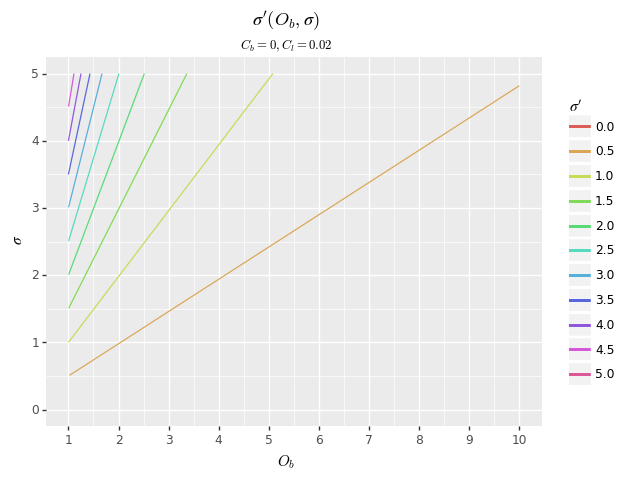
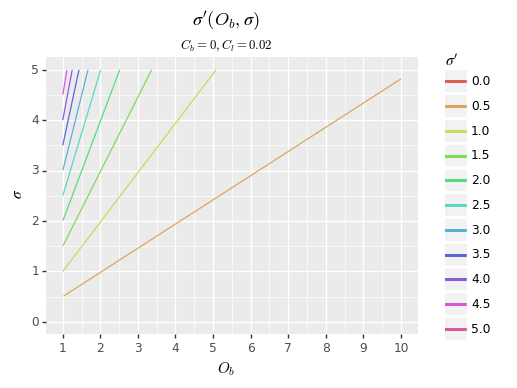
Experimenting with smaller images.

diff --git a/images/matched-betting/plots.py b/images/matched-betting/plots.py
@@ -117,7 +117,7 @@ def main():
      + gg.geom_abline(slope=1, intercept=0,
                       linetype='dashed', color='grey')
      + gg.geom_line()
-    ).save(savepath('Pf_Ob_Ol.png'))
+    ).save(savepath('Pf_Ob_Ol.png'), width=4.8, height=3.6)
 
     df = concat_map(Pf_Ob_σ, 'P_f', np.linspace(0.1, 1, 10))
     (gg.ggplot(df, gg.aes('O_b', 'σ', group='P_f', color='P_f'))
@@ -126,7 +126,7 @@ def main():
      + labs('O_b', 'σ')
      + limits((1, 10), (0, 5))
      + gg.geom_line()
-    ).save(savepath('Pf_Ob_σ.png'))
+    ).save(savepath('Pf_Ob_σ.png'), width=4.8, height=3.6)
 
     df = concat_map(Pq_Ob_Ol, 'P_q', np.linspace(-0.9, 0, 10))
     (gg.ggplot(df, gg.aes('O_b', 'O_l', group='P_q', color='P_q'))
@@ -137,7 +137,7 @@ def main():
      + gg.geom_abline(slope=1, intercept=0,
                       linetype='dashed', color='grey')
      + gg.geom_line()
-    ).save(savepath('Pq_Ob_Ol.png'))
+    ).save(savepath('Pq_Ob_Ol.png'), width=4.8, height=3.6)
 
     df = concat_map(Pq_Ob_σ, 'P_q', np.linspace(-0.9, 0, 10))
     (gg.ggplot(df, gg.aes('O_b', 'σ', group='P_q', color='P_q'))
@@ -146,7 +146,7 @@ def main():
      + labs('O_b', 'σ')
      + limits((1, 10), (0, 5))
      + gg.geom_line()
-    ).save(savepath('Pq_Ob_σ.png'))
+    ).save(savepath('Pq_Ob_σ.png'), width=4.8, height=3.6)
 
     df = concat_map(Opr_Ob_Ol, 'Opr', np.linspace(1, 5, 9))
     (gg.ggplot(df, gg.aes('O_b', 'O_l', group='Opr', color='Opr'))
@@ -157,7 +157,7 @@ def main():
      + gg.geom_line()
      + gg.geom_abline(slope=1, intercept=0,
                       linetype='dashed', color='grey')
-    ).save(savepath('Opr_Ob_Ol.png'))
+    ).save(savepath('Opr_Ob_Ol.png'), width=4.8, height=3.6)
 
     df = concat_map(Opr_Ob_σ, 'Opr', np.linspace(1, 5, 9))
     (gg.ggplot(df, gg.aes('O_b', 'σ', group='Opr', color='Opr'))
@@ -166,7 +166,7 @@ def main():
      + labs('O_b', 'σ')
      + limits((1, 10), (0, 5))
      + gg.geom_line()
-    ).save(savepath('Opr_Ob_σ.png'))
+    ).save(savepath('Opr_Ob_σ.png'), width=4.8, height=3.6)
 
     df = (pd.DataFrame({'Opr': np.linspace(1, 20, 91)})
             .assign(Pf=lambda x: Opr_Pf(x.Opr)))
@@ -178,7 +178,7 @@ def main():
               ybreaks=np.linspace(0, 1, 11))
      + gg.geom_line()
      + gg.geom_hline(yintercept=C, linetype='dashed', color='grey')
-    ).save(savepath('Pf_Opr.png'))
+    ).save(savepath('Pf_Opr.png'), width=4.8, height=3.6)
 
     df = concat_map(σpr_Ob_σ, 'σpr', np.linspace(0, 5, 11))
     (gg.ggplot(df, gg.aes('O_b', 'σ', group='σpr', color='σpr'))
@@ -187,7 +187,7 @@ def main():
      + labs('O_b', 'σ')
      + limits((1, 10), (0, 5))
      + gg.geom_line()
-    ).save(savepath('σpr_Ob_σ.png'))
+    ).save(savepath('σpr_Ob_σ.png'), width=4.8, height=3.6)
 
     df = (pd.DataFrame({'σpr': np.linspace(0, 20, 101)})
             .assign(Pq=lambda x: σpr_Pq(x.σpr)))
@@ -198,7 +198,7 @@ def main():
               xbreaks=np.linspace(0, 20, 11),
               ybreaks=np.linspace(-1, 0, 11))
      + gg.geom_line()
-    ).save(savepath('Pq_σpr.png'))
+    ).save(savepath('Pq_σpr.png'), width=4.8, height=3.6)
 
 if __name__ == '__main__':
     main()
